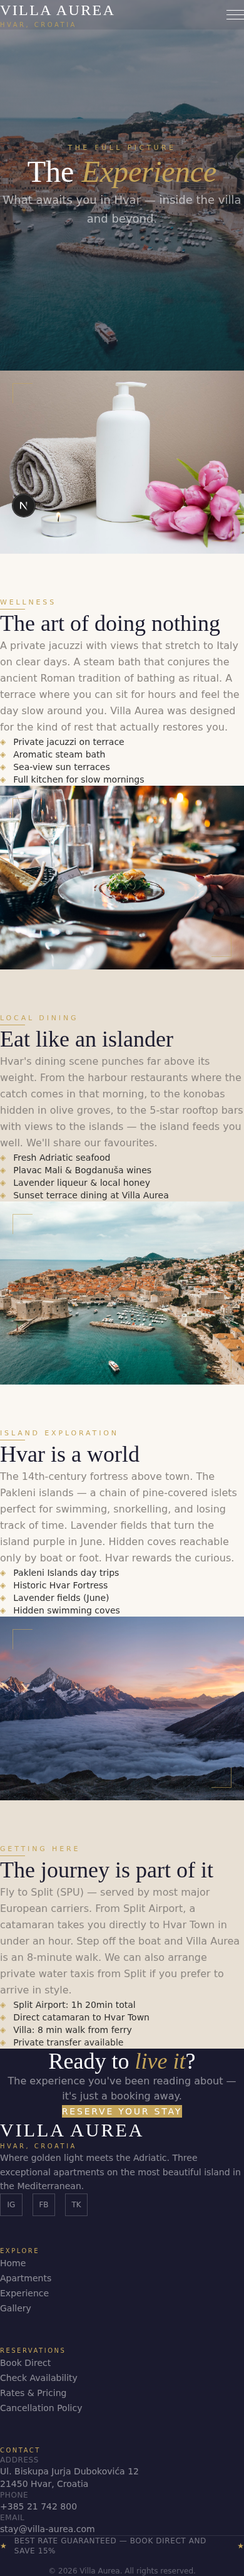
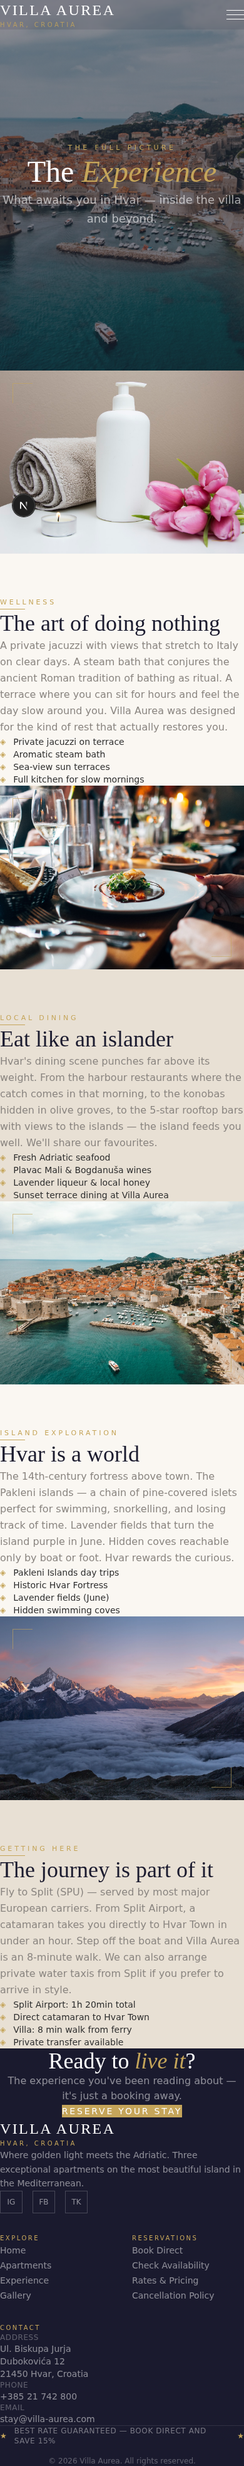
feat: responsive design + mobile-first improvements
- Footer: 2-col grid on mobile, brand col spans full width at sm
- ApartmentsPreview: landscape aspect-[4/3] on mobile, portrait md+, reduced padding
- AboutSection: smaller aspect ratio on mobile, reduced py and font sizes
- BookingWidget: sticky only on lg+ (lg:sticky lg:top-24)
- ApartmentGallery: centered thumbnails on mobile, overflow-x-auto, touch-friendly
- BookingFlow: full-width buttons on mobile (w-full sm:w-auto), stacked nav
- Apartment detail page: reduced mobile padding and font sizes throughout

All pages verified via Playwright screenshots at 390px and 1440px viewports.

diff --git a/src/components/ui/BookingFlow.tsx b/src/components/ui/BookingFlow.tsx
@@ -33,10 +33,10 @@ export default function BookingFlow() {
   const labelClass = 'text-[10px] tracking-widest uppercase text-[#8A8580] block mb-2';
 
   return (
-    <section className='py-20 bg-[#FAF7F2]'>
-      <div className='max-w-4xl mx-auto px-6'>
+    <section className='py-12 lg:py-20 bg-[#FAF7F2]'>
+      <div className='max-w-4xl mx-auto px-4 sm:px-6'>
         {/* Progress steps */}
-        <div className='flex items-center justify-between mb-16 relative'>
+        <div className='flex items-center justify-between mb-10 lg:mb-16 relative'>
           <div className='absolute top-3 left-0 right-0 h-px bg-[#E8E0D4] -z-0' />
           {steps.map((s) => (
             <div key={s.n} className='flex flex-col items-center gap-2 z-10'>
@@ -71,12 +71,12 @@ export default function BookingFlow() {
               transition={{ duration: 0.4 }}
             >
               <h2
-                className='text-3xl text-[#1A1A2E] mb-8'
+                className='text-2xl sm:text-3xl text-[#1A1A2E] mb-6 sm:mb-8'
                 style={{ fontFamily: "'Cormorant Garamond', Georgia, serif", fontWeight: 300 }}
               >
                 Choose your apartment
               </h2>
-              <div className='grid grid-cols-1 md:grid-cols-3 gap-5'>
+              <div className='grid grid-cols-1 sm:grid-cols-2 md:grid-cols-3 gap-4 sm:gap-5'>
                 {apartments.map((a) => (
                   <button
                     key={a.id}
@@ -112,11 +112,11 @@ export default function BookingFlow() {
                   </button>
                 ))}
               </div>
-              <div className='flex justify-end mt-8'>
+              <div className='flex justify-end mt-6 sm:mt-8'>
                 <button
                   onClick={() => selectedApt && setStep(2)}
                   disabled={!selectedApt}
-                  className='px-10 py-4 bg-[#1A1A2E] text-white text-sm tracking-[0.15em] uppercase disabled:opacity-40 hover:bg-[#C5A55A] transition-all duration-300'
+                  className='w-full sm:w-auto px-10 py-4 bg-[#1A1A2E] text-white text-sm tracking-[0.15em] uppercase disabled:opacity-40 hover:bg-[#C5A55A] transition-all duration-300'
                   style={{ fontFamily: "'Outfit', system-ui, sans-serif", fontWeight: 500 }}
                 >
                   Continue →
@@ -135,7 +135,7 @@ export default function BookingFlow() {
               transition={{ duration: 0.4 }}
             >
               <h2
-                className='text-3xl text-[#1A1A2E] mb-8'
+                className='text-2xl sm:text-3xl text-[#1A1A2E] mb-6 sm:mb-8'
                 style={{ fontFamily: "'Cormorant Garamond', Georgia, serif", fontWeight: 300 }}
               >
                 Select your dates
@@ -209,10 +209,10 @@ export default function BookingFlow() {
                 </div>
               )}
 
-              <div className='flex justify-between'>
+              <div className='flex flex-col sm:flex-row justify-between gap-3 sm:gap-0'>
                 <button
                   onClick={() => setStep(1)}
-                  className='px-8 py-4 border border-[#E8E0D4] text-[#8A8580] text-sm tracking-widest uppercase hover:border-[#1A1A2E] hover:text-[#1A1A2E] transition-all'
+                  className='w-full sm:w-auto px-8 py-4 border border-[#E8E0D4] text-[#8A8580] text-sm tracking-widest uppercase hover:border-[#1A1A2E] hover:text-[#1A1A2E] transition-all'
                   style={{ fontFamily: "'Outfit', system-ui, sans-serif" }}
                 >
                   ← Back
@@ -220,7 +220,7 @@ export default function BookingFlow() {
                 <button
                   onClick={() => checkIn && checkOut && nights > 0 && setStep(3)}
                   disabled={!checkIn || !checkOut || nights <= 0}
-                  className='px-10 py-4 bg-[#1A1A2E] text-white text-sm tracking-[0.15em] uppercase disabled:opacity-40 hover:bg-[#C5A55A] transition-all duration-300'
+                  className='w-full sm:w-auto px-10 py-4 bg-[#1A1A2E] text-white text-sm tracking-[0.15em] uppercase disabled:opacity-40 hover:bg-[#C5A55A] transition-all duration-300'
                   style={{ fontFamily: "'Outfit', system-ui, sans-serif", fontWeight: 500 }}
                 >
                   Continue →
@@ -239,7 +239,7 @@ export default function BookingFlow() {
               transition={{ duration: 0.4 }}
             >
               <h2
-                className='text-3xl text-[#1A1A2E] mb-8'
+                className='text-2xl sm:text-3xl text-[#1A1A2E] mb-6 sm:mb-8'
                 style={{ fontFamily: "'Cormorant Garamond', Georgia, serif", fontWeight: 300 }}
               >
                 Your details
@@ -292,10 +292,10 @@ export default function BookingFlow() {
                 />
               </div>
 
-              <div className='flex justify-between'>
+              <div className='flex flex-col sm:flex-row justify-between gap-3 sm:gap-0'>
                 <button
                   onClick={() => setStep(2)}
-                  className='px-8 py-4 border border-[#E8E0D4] text-[#8A8580] text-sm tracking-widest uppercase hover:border-[#1A1A2E] hover:text-[#1A1A2E] transition-all'
+                  className='w-full sm:w-auto px-8 py-4 border border-[#E8E0D4] text-[#8A8580] text-sm tracking-widest uppercase hover:border-[#1A1A2E] hover:text-[#1A1A2E] transition-all'
                   style={{ fontFamily: "'Outfit', system-ui, sans-serif" }}
                 >
                   ← Back
@@ -303,7 +303,7 @@ export default function BookingFlow() {
                 <button
                   onClick={() => guestInfo.name && guestInfo.email && setStep(4)}
                   disabled={!guestInfo.name || !guestInfo.email}
-                  className='px-10 py-4 bg-[#C5A55A] text-white text-sm tracking-[0.15em] uppercase disabled:opacity-40 hover:bg-[#D4B96E] transition-all duration-300'
+                  className='w-full sm:w-auto px-10 py-4 bg-[#C5A55A] text-white text-sm tracking-[0.15em] uppercase disabled:opacity-40 hover:bg-[#D4B96E] transition-all duration-300'
                   style={{ fontFamily: "'Outfit', system-ui, sans-serif", fontWeight: 500 }}
                 >
                   Complete Reservation →

diff --git a/src/components/ui/ApartmentGallery.tsx b/src/components/ui/ApartmentGallery.tsx
@@ -14,7 +14,7 @@ export default function ApartmentGallery({ images, name }: Props) {
 
   return (
     <>
-      <section className='relative h-[70vh] min-h-[500px] bg-[#1A1A2E] overflow-hidden'>
+      <section className='relative h-[55vh] sm:h-[65vh] lg:h-[70vh] min-h-[320px] bg-[#1A1A2E] overflow-hidden'>
         {/* Main image */}
         <AnimatePresence mode='wait'>
           <motion.div
@@ -37,9 +37,9 @@ export default function ApartmentGallery({ images, name }: Props) {
         </AnimatePresence>
 
         {/* Title overlay */}
-        <div className='absolute bottom-10 left-8 lg:left-12 z-10'>
+        <div className='absolute bottom-16 sm:bottom-10 left-5 sm:left-8 lg:left-12 z-10'>
           <h1
-            className='text-4xl sm:text-5xl lg:text-6xl text-white leading-tight'
+            className='text-3xl sm:text-5xl lg:text-6xl text-white leading-tight'
             style={{ fontFamily: "'Cormorant Garamond', Georgia, serif", fontWeight: 300 }}
           >
             {name}
@@ -47,12 +47,12 @@ export default function ApartmentGallery({ images, name }: Props) {
         </div>
 
         {/* Thumbnails */}
-        <div className='absolute bottom-8 right-8 lg:right-12 z-10 flex gap-2'>
+        <div className='absolute bottom-4 left-0 right-0 z-10 flex gap-2 justify-center sm:justify-end sm:right-8 sm:left-auto lg:right-12 px-5 sm:px-0 overflow-x-auto'>
           {images.map((img, i) => (
             <button
               key={i}
               onClick={() => setActiveIndex(i)}
-              className={`w-14 h-10 overflow-hidden border-2 transition-all duration-200 ${
+              className={`flex-shrink-0 w-12 h-9 sm:w-14 sm:h-10 overflow-hidden border-2 transition-all duration-200 ${
                 i === activeIndex ? 'border-[#C5A55A]' : 'border-white/30 hover:border-white/60'
               }`}
               aria-label={`View photo ${i + 1}`}
@@ -85,7 +85,7 @@ export default function ApartmentGallery({ images, name }: Props) {
             onClick={() => setLightboxOpen(false)}
           >
             <button
-              className='absolute top-6 right-6 text-white/60 hover:text-white text-3xl'
+              className='absolute top-4 right-4 w-11 h-11 flex items-center justify-center text-white/60 hover:text-white text-2xl'
               onClick={() => setLightboxOpen(false)}
               aria-label='Close lightbox'
             >
@@ -95,22 +95,22 @@ export default function ApartmentGallery({ images, name }: Props) {
               initial={{ scale: 0.9, opacity: 0 }}
               animate={{ scale: 1, opacity: 1 }}
               exit={{ scale: 0.9, opacity: 0 }}
-              className='max-w-5xl max-h-[90vh] mx-8'
+              className='max-w-5xl max-h-[90vh] mx-4 sm:mx-8'
               onClick={(e) => e.stopPropagation()}
             >
               {/* eslint-disable-next-line @next/next/no-img-element */}
               <img
                 src={images[activeIndex]}
                 alt={`${name} — photo ${activeIndex + 1}`}
-                className='max-w-full max-h-[80vh] object-contain'
+                className='max-w-full max-h-[75vh] object-contain'
               />
               {/* Lightbox thumbnails */}
-              <div className='flex gap-3 mt-4 justify-center'>
+              <div className='flex gap-2 sm:gap-3 mt-3 sm:mt-4 justify-center overflow-x-auto pb-1'>
                 {images.map((img, i) => (
                   <button
                     key={i}
                     onClick={() => setActiveIndex(i)}
-                    className={`w-16 h-11 overflow-hidden border transition-all ${
+                    className={`flex-shrink-0 w-12 h-9 sm:w-16 sm:h-11 overflow-hidden border transition-all ${
                       i === activeIndex ? 'border-[#C5A55A]' : 'border-white/20'
                     }`}
                     aria-label={`View photo ${i + 1}`}

diff --git a/src/components/sections/AboutSection.tsx b/src/components/sections/AboutSection.tsx
@@ -12,16 +12,16 @@ export default function AboutSection() {
   const imageY = useTransform(scrollYProgress, [0, 1], ['-10%', '10%']);
 
   return (
-    <section ref={sectionRef} className='py-24 lg:py-32 bg-[#FAF7F2] overflow-hidden'>
+    <section ref={sectionRef} className='py-16 lg:py-32 bg-[#FAF7F2] overflow-hidden'>
       <div className='max-w-7xl mx-auto px-6'>
-        <div className='grid grid-cols-1 lg:grid-cols-2 gap-16 lg:gap-24 items-center'>
+        <div className='grid grid-cols-1 lg:grid-cols-2 gap-10 lg:gap-24 items-center'>
           {/* Image with parallax */}
           <motion.div
             initial={{ opacity: 0, x: -60 }}
             whileInView={{ opacity: 1, x: 0 }}
             viewport={{ once: true, margin: '-100px' }}
             transition={{ duration: 1, ease: [0.22, 1, 0.36, 1] }}
-            className='relative overflow-hidden aspect-[4/5]'
+            className='relative overflow-hidden aspect-[4/3] lg:aspect-[4/5]'
           >
             <motion.div style={{ y: imageY }} className='absolute inset-0 scale-110'>
               {/* eslint-disable-next-line @next/next/no-img-element */}
@@ -55,7 +55,7 @@ export default function AboutSection() {
             <div className='w-12 h-px bg-[#C5A55A] mt-4 mb-6' />
 
             <h2
-              className='text-5xl lg:text-6xl text-[#1A1A2E] leading-[1.1] mb-8'
+              className='text-4xl lg:text-6xl text-[#1A1A2E] leading-[1.1] mb-6 lg:mb-8'
               style={{ fontFamily: "'Cormorant Garamond', Georgia, serif", fontWeight: 300 }}
             >
               Where stone<br />
@@ -66,7 +66,7 @@ export default function AboutSection() {
               className='space-y-5 text-[#2D2D2D]/70 leading-relaxed'
               style={{ fontFamily: "'Outfit', system-ui, sans-serif", fontWeight: 300 }}
             >
-              <p className='text-lg'>
+              <p className='text-base lg:text-lg'>
                 Built in 2019, Villa Aurea rises from the ancient limestone of Hvar with the quiet confidence of a home that knows its place in the world. Its facade — traditional Dalmatian stone, sun-worn and salt-kissed — conceals interiors of quiet modern luxury.
               </p>
               <p>
@@ -77,7 +77,7 @@ export default function AboutSection() {
               </p>
             </div>
 
-            <div className='flex gap-12 mt-10 pt-8 border-t border-[#E8E0D4]'>
+            <div className='flex gap-8 lg:gap-12 mt-8 lg:mt-10 pt-6 lg:pt-8 border-t border-[#E8E0D4]'>
               <div>
                 <div
                   className='text-3xl text-[#C5A55A] mb-1'

diff --git a/src/components/ui/BookingWidget.tsx b/src/components/ui/BookingWidget.tsx
@@ -33,8 +33,8 @@ export default function BookingWidget({ apartment }: Props) {
   const total = nights * apartment.priceFrom;
 
   return (
-    <div className='sticky top-24'>
-      <div className='bg-white border border-[#E8E0D4] p-6 shadow-lg'>
+    <div className='lg:sticky lg:top-24'>
+      <div className='bg-white border border-[#E8E0D4] p-5 lg:p-6 shadow-lg'>
         {/* Header */}
         <div className='flex items-baseline justify-between mb-6'>
           <div>
@@ -60,7 +60,7 @@ export default function BookingWidget({ apartment }: Props) {
         </div>
 
         {/* Date inputs */}
-        <div className='grid grid-cols-2 gap-0 border border-[#E8E0D4] mb-4'>
+        <div className='grid grid-cols-2 gap-0 border border-[#E8E0D4] mb-4 min-w-0'>
           <div className='p-3 border-r border-[#E8E0D4]'>
             <label
               className='text-[10px] tracking-widest uppercase text-[#8A8580] block mb-1'
@@ -73,7 +73,7 @@ export default function BookingWidget({ apartment }: Props) {
               value={checkIn}
               onChange={(e) => setCheckIn(e.target.value)}
               min={new Date().toISOString().split('T')[0]}
-              className='w-full text-sm text-[#1A1A2E] bg-transparent outline-none'
+              className='w-full text-xs sm:text-sm text-[#1A1A2E] bg-transparent outline-none min-w-0'
               style={{ fontFamily: "'Outfit', system-ui, sans-serif" }}
             />
           </div>
@@ -89,7 +89,7 @@ export default function BookingWidget({ apartment }: Props) {
               value={checkOut}
               onChange={(e) => setCheckOut(e.target.value)}
               min={checkIn || new Date().toISOString().split('T')[0]}
-              className='w-full text-sm text-[#1A1A2E] bg-transparent outline-none'
+              className='w-full text-xs sm:text-sm text-[#1A1A2E] bg-transparent outline-none min-w-0'
               style={{ fontFamily: "'Outfit', system-ui, sans-serif" }}
             />
           </div>

diff --git a/src/components/sections/ApartmentsPreview.tsx b/src/components/sections/ApartmentsPreview.tsx
@@ -6,7 +6,7 @@ import { apartments } from '@/data/villa';
 
 export default function ApartmentsPreview() {
   return (
-    <section className='py-24 lg:py-32 bg-[#E8E0D4] overflow-hidden'>
+    <section className='py-16 lg:py-32 bg-[#E8E0D4] overflow-hidden'>
       <div className='max-w-7xl mx-auto px-6'>
         {/* Header */}
         <motion.div
@@ -14,7 +14,7 @@ export default function ApartmentsPreview() {
           whileInView={{ opacity: 1, y: 0 }}
           viewport={{ once: true }}
           transition={{ duration: 0.8 }}
-          className='text-center mb-16'
+          className='text-center mb-10 lg:mb-16'
         >
           <span
             className='text-[11px] tracking-[0.35em] uppercase text-[#C5A55A]'
@@ -24,7 +24,7 @@ export default function ApartmentsPreview() {
           </span>
           <div className='w-12 h-px bg-[#C5A55A] mx-auto mt-4 mb-6' />
           <h2
-            className='text-5xl lg:text-6xl text-[#1A1A2E] leading-tight'
+            className='text-4xl lg:text-6xl text-[#1A1A2E] leading-tight'
             style={{ fontFamily: "'Cormorant Garamond', Georgia, serif", fontWeight: 300 }}
           >
             Choose your <em style={{ fontStyle: 'italic' }}>retreat</em>
@@ -43,7 +43,7 @@ export default function ApartmentsPreview() {
             >
               <Link href={`/apartments/${apt.slug}`} className='group block'>
                 {/* Image container */}
-                <div className='relative overflow-hidden aspect-[3/4] mb-6'>
+                <div className='relative overflow-hidden aspect-[4/3] md:aspect-[3/4] mb-5 lg:mb-6'>
                   {/* eslint-disable-next-line @next/next/no-img-element */}
                   <img
                     src={apt.image}

diff --git a/src/app/apartments/[slug]/page.tsx b/src/app/apartments/[slug]/page.tsx
@@ -77,9 +77,9 @@ export default async function ApartmentDetailPage({ params }: Props) {
       <ApartmentGallery images={apt.gallery} name={apt.name} />
 
       {/* Main content */}
-      <section className='py-20 bg-[#FAF7F2]'>
-        <div className='max-w-7xl mx-auto px-6'>
-          <div className='grid grid-cols-1 lg:grid-cols-3 gap-12'>
+      <section className='py-12 lg:py-20 bg-[#FAF7F2]'>
+        <div className='max-w-7xl mx-auto px-4 sm:px-6'>
+          <div className='grid grid-cols-1 lg:grid-cols-3 gap-10 lg:gap-12'>
             {/* Left — description */}
             <div className='lg:col-span-2'>
               <span
@@ -90,14 +90,14 @@ export default async function ApartmentDetailPage({ params }: Props) {
               </span>
               <div className='w-10 h-px bg-[#C5A55A] mt-3 mb-5' />
               <h1
-                className='text-5xl lg:text-6xl text-[#1A1A2E] mb-6 leading-tight'
+                className='text-4xl lg:text-6xl text-[#1A1A2E] mb-5 lg:mb-6 leading-tight'
                 style={{ fontFamily: "'Cormorant Garamond', Georgia, serif", fontWeight: 300 }}
               >
                 {apt.name}
               </h1>
 
               <p
-                className='text-xl text-[#8A8580] leading-relaxed mb-10'
+                className='text-base lg:text-xl text-[#8A8580] leading-relaxed mb-8 lg:mb-10'
                 style={{ fontFamily: "'Outfit', system-ui, sans-serif", fontWeight: 300 }}
               >
                 {apt.description}

diff --git a/src/components/layout/Footer.tsx b/src/components/layout/Footer.tsx
@@ -19,12 +19,12 @@ export default function Footer() {
   return (
     <footer className='bg-[#1A1A2E] text-white/70'>
       {/* Main footer */}
-      <div className='max-w-7xl mx-auto px-6 py-20'>
-        <div className='grid grid-cols-1 md:grid-cols-4 gap-12'>
+      <div className='max-w-7xl mx-auto px-6 py-12 lg:py-20'>
+        <div className='grid grid-cols-2 md:grid-cols-4 gap-8 lg:gap-12'>
           {/* Brand */}
-          <div className='md:col-span-1'>
+          <div className='col-span-2 md:col-span-1'>
             <h3
-              className='text-3xl text-white tracking-widest mb-2'
+              className='text-2xl lg:text-3xl text-white tracking-widest mb-2'
               style={{ fontFamily: "'Cormorant Garamond', Georgia, serif", fontWeight: 300 }}
             >
               VILLA AUREA
